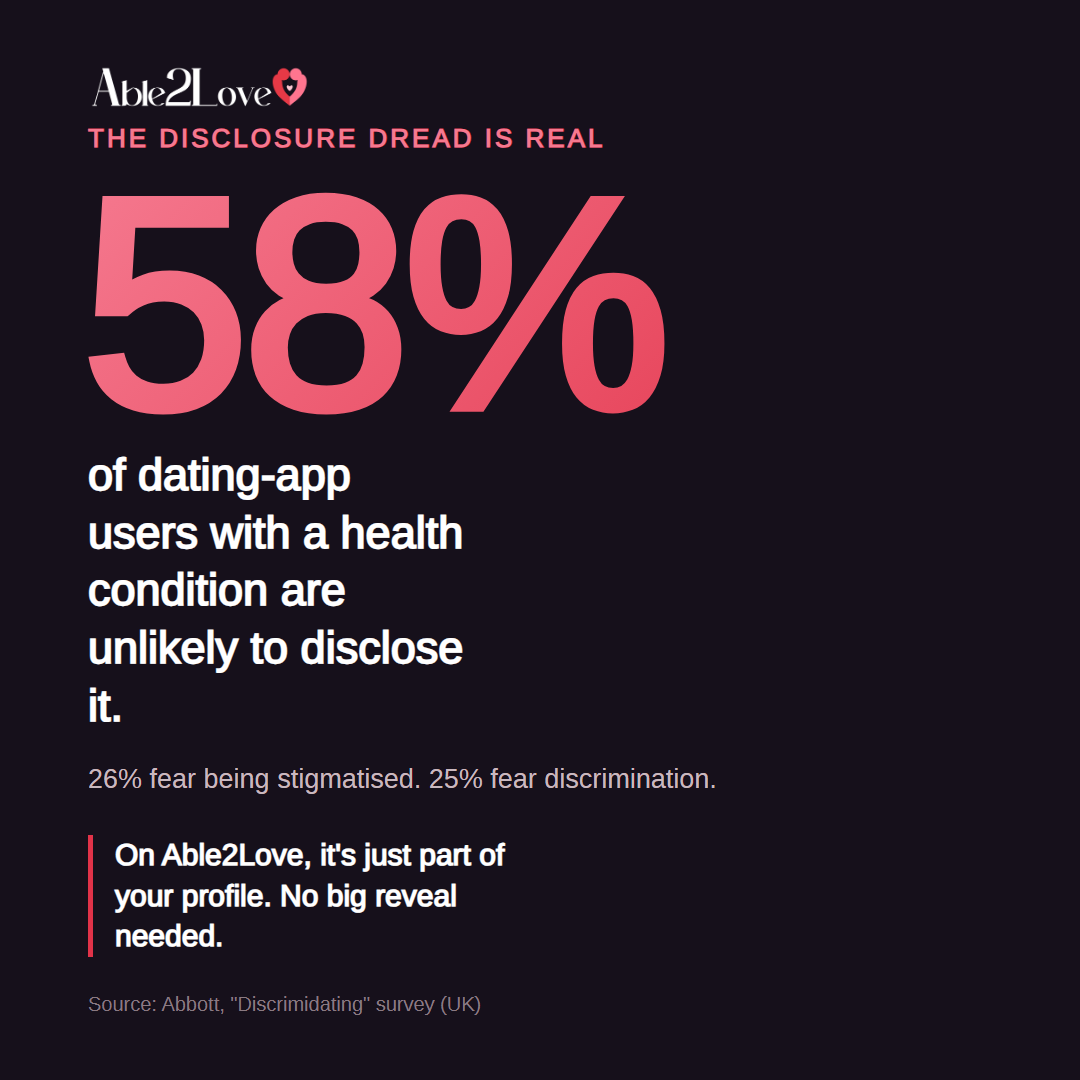
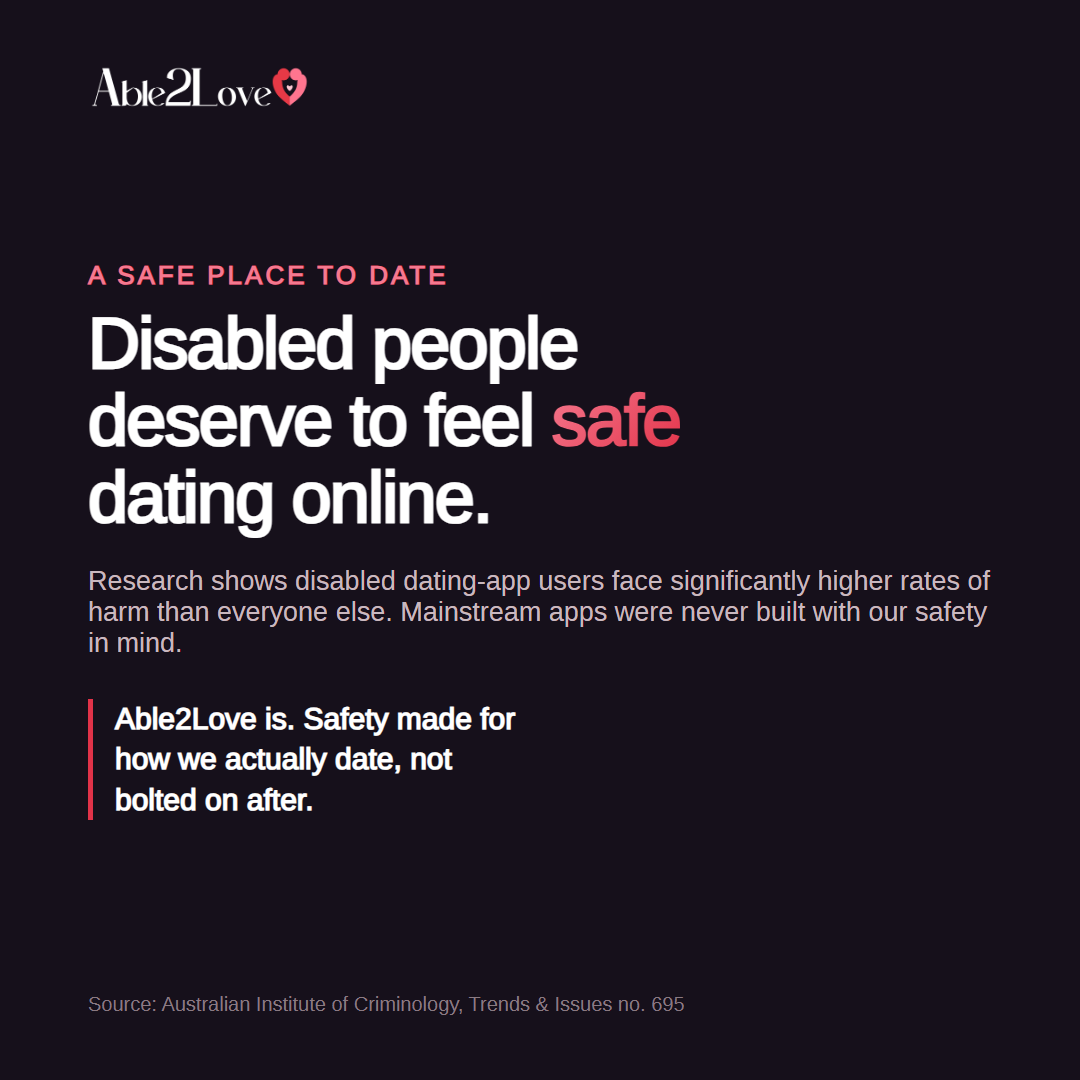
Replace unverifiable 58% stat with a sourced safety card
The "58% ... Abbott Discrimidating (UK)" figure could not be verified against
any primary source, so per ban-safety it's out. Rebuilt the card around the
safety angle: disabled people deserve a safe place to date, mainstream apps
weren't built for it, Able2Love is. Backs it with the AIC's own accurate
wording ("significantly higher rates of harm", Trends & Issues no. 695) — no
invented number and no graphic framing.

Changed region(s): [[0.0611, 0.1222, 0.9167, 0.8861], [0.1528, 0.9167, 0.6417, 0.9472]]

diff --git a/marketing/brand-assets/src/stat-58.html b/marketing/brand-assets/src/stat-58.html
@@ -9,9 +9,8 @@
   .brandrow svg{width:60px;height:60px}
   .brandname{font-size:30px;font-weight:700;letter-spacing:-.5px}
   .eyebrow{font-size:26px;font-weight:700;letter-spacing:3px;text-transform:uppercase;color:#F5798F;margin-bottom:14px}
-  .stat{font-size:300px;font-weight:800;line-height:.9;letter-spacing:-6px;
-    background:linear-gradient(135deg,#F5798F 0%,#E23349 100%);-webkit-background-clip:text;background-clip:text;color:transparent;margin:0 0 8px -6px}
-  .claim{font-size:45px;font-weight:600;line-height:1.28;max-width:15ch;margin:0 0 30px}
+  .headline{font-size:72px;font-weight:800;line-height:1.07;letter-spacing:-1.8px;max-width:15ch;margin:0 0 30px}
+  .headline b{background:linear-gradient(135deg,#F5798F 0%,#E23349 100%);-webkit-background-clip:text;background-clip:text;color:transparent;font-weight:800}
   .sub{font-size:27px;font-weight:500;color:#C9B8BF;margin:0 0 40px}
   .tie{font-size:30px;font-weight:600;line-height:1.35;color:#fff;border-left:5px solid #E23349;padding-left:22px;max-width:24ch}
   .source{position:absolute;bottom:64px;left:88px;font-size:20px;color:#8A7A82;font-weight:500}
@@ -33,11 +32,10 @@
     <img class="wm" src="../logo-wordmark.png" alt="Able2Love">
   </div>
 
-  <div class="eyebrow">The disclosure dread is real</div>
-  <div class="stat">58%</div>
-  <div class="claim">of dating-app users with a health condition are unlikely to disclose it.</div>
-  <div class="sub">26% fear being stigmatised. 25% fear discrimination.</div>
-  <div class="tie">On Able2Love, it's just part of your profile. No big reveal needed.</div>
+  <div class="eyebrow">A safe place to date</div>
+  <div class="headline">Disabled people deserve to feel <b>safe</b> dating online.</div>
+  <div class="sub">Research shows disabled dating-app users face significantly higher rates of harm than everyone else. Mainstream apps were never built with our safety in mind.</div>
+  <div class="tie">Able2Love is. Safety made for how we actually date, not bolted on after.</div>
 
-  <div class="source">Source: Abbott, "Discrimidating" survey (UK)</div>
+  <div class="source">Source: Australian Institute of Criminology, Trends &amp; Issues no. 695</div>
 </body></html>
